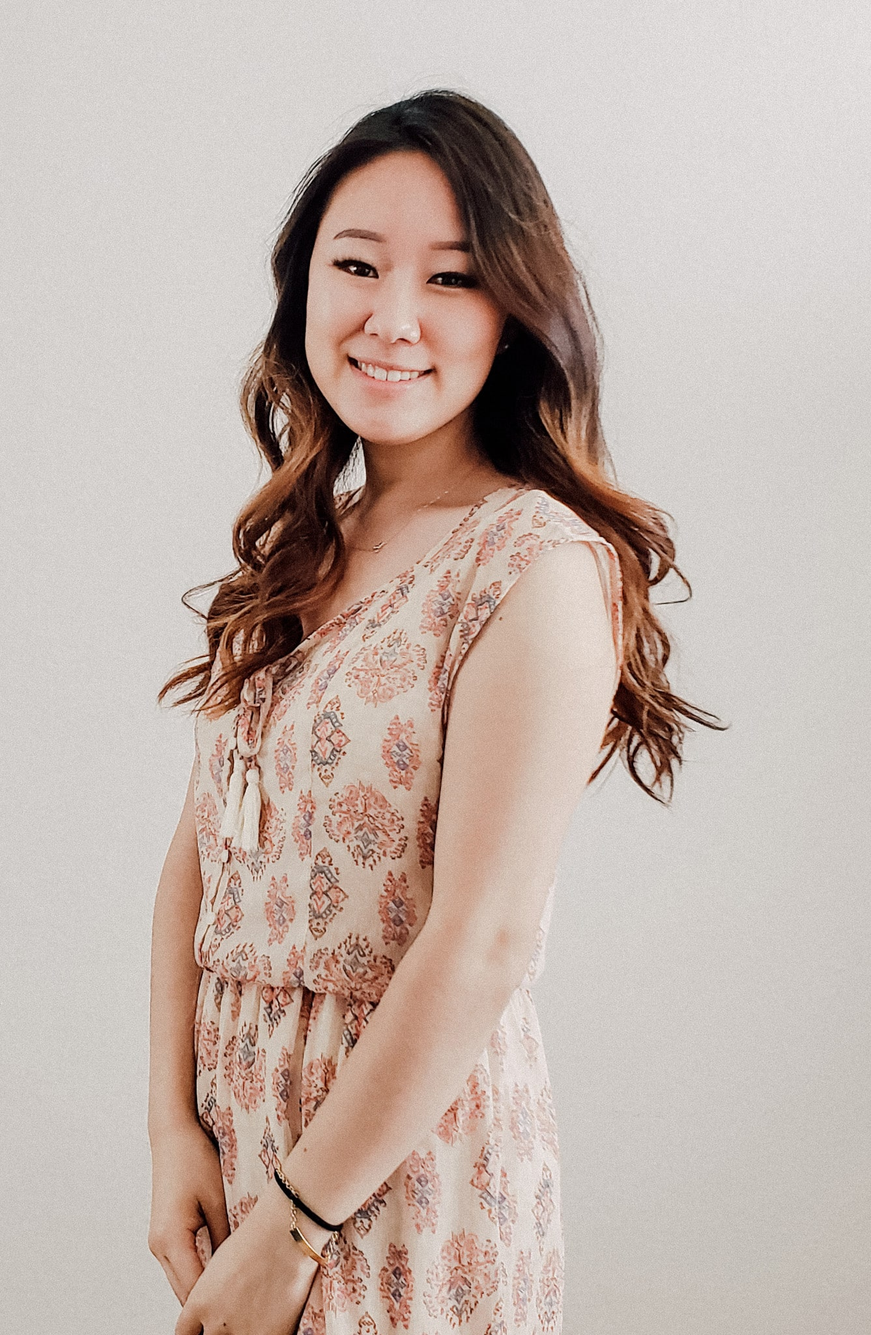
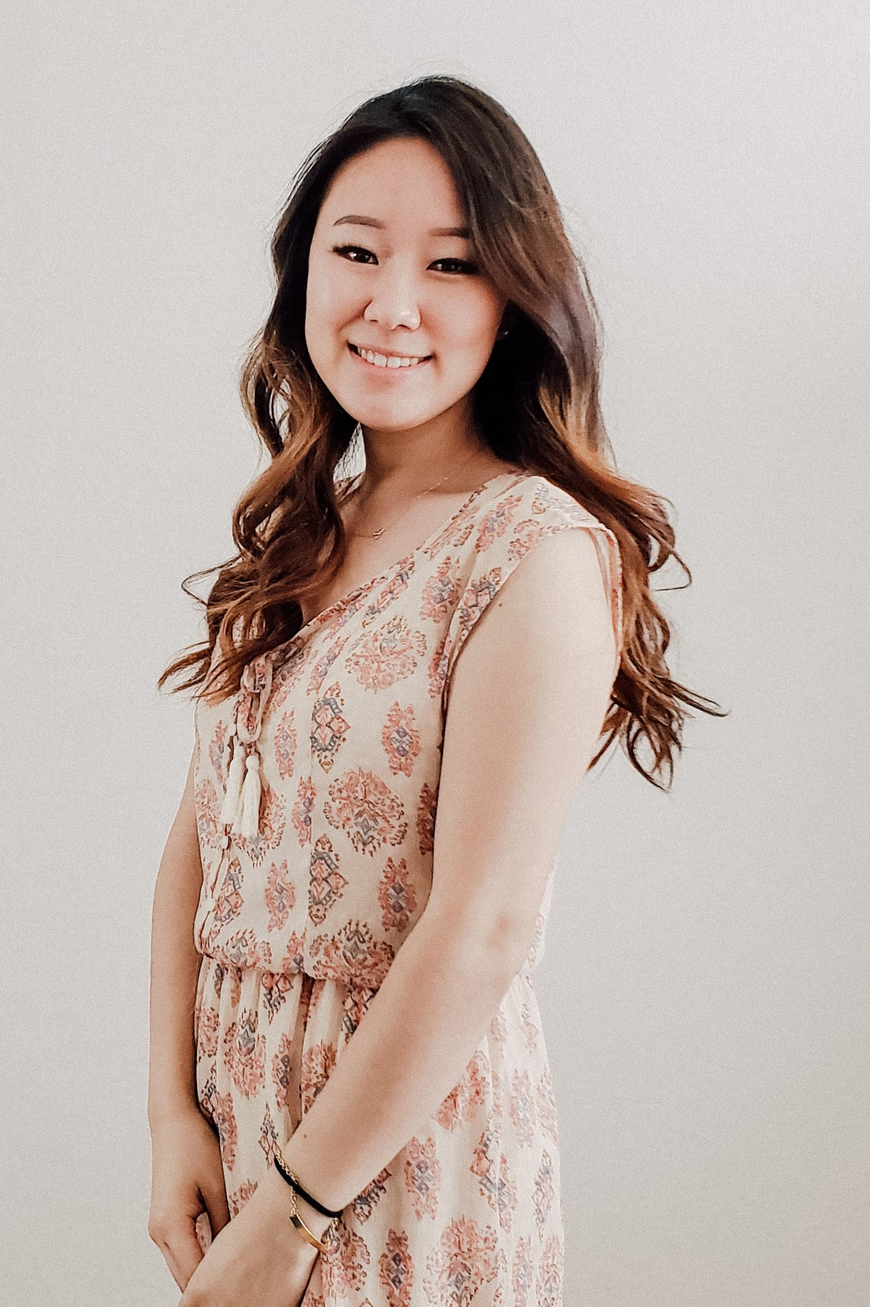
finished staff page

Changed region(s): [[0.1534, 0.4638, 0.6445, 1.0], [0.2148, 0.0309, 0.8286, 0.6185], [0.5831, 0.7421, 0.6138, 0.7731]]

diff --git a/src/content/Staff.js b/src/content/Staff.js
@@ -5,38 +5,38 @@ const Staff = [
     team: 'Executive',
     members: [
       {
-        name: 'Nicole Lee',
+        name: 'Kristen Yee',
         role: 'CEO',
         description: (
           <div>
             <h3>
-              Hi! My name is Nicole and I'm majoring in Media Studies and minoring in Journalism. I
-              joined YHWH Apparel during my sophomore year and have had the privilege of witnessing
-              God work in and through this community ever since. It's such a gift and a treat to
-              share my faith in unique ways while doing meaningful work alongside some really cool
-              people. I'm so thankful and honored to be a part of this team!
+              Hi! I'm Kristen, a student studying English. The semester that I joined YHWH, serving
+              and giving back to the Berkeley Christian community was heavy on my heart, and I'm so
+              grateful for the ways that YHWH has helped me incorporate my academic pursuits with my
+              faith. I am a huge coffee-lover, oversleeper, and #1 fan of my amazing marketing team
+              :)
             </h3>
           </div>
         ),
-        imgSrcDesktop: require('../images/staff/desktop-staff/nicole.png'),
-        imgSrcMobile: require('../images/staff/mobile-staff/nicole.jpg')
+        imgSrcDesktop: require('../images/staff/desktop-staff/kristen.png'),
+        imgSrcMobile: require('../images/staff/mobile-staff/kristen.jpg')
       },
       {
-        name: 'Peter Thompson',
+        name: 'Emily Shaw',
         role: 'Vice President',
         description: (
           <div>
             <h3>
-              Hey, I’m Peter, and I’m studying EECS. I joined YHWH my sophomore year, and being a
-              part of this team and community has been such a blessing! It’s been so amazing to see
-              how we’ve been able to carry out God’s mission through our apparel, and I’m so excited
-              to see how He’s going to continue to grow and work through us. Apart from YHWH, I love
-              to play basketball, go snowboarding, and play guitar.
+              Hello hello! I’m Emily and I’m an EECS major also pursing the Berkeley Certificate in
+              Design Innovation. Joining YHWH has been such a blessing in showing me how my passions
+              and career pursuits can be used to glorify God. My heart is so happy to see how our
+              products are used to spark conversations about Him. Apart from YHWH, I enjoy swimming,
+              hiking, and baking!
             </h3>
           </div>
         ),
-        imgSrcDesktop: require('../images/staff/desktop-staff/peter.png'),
-        imgSrcMobile: require('../images/staff/mobile-staff/peter.jpg')
+        imgSrcDesktop: require('../images/staff/desktop-staff/emily.png'),
+        imgSrcMobile: require('../images/staff/mobile-staff/emily.jpg')
       }
     ]
   },
@@ -44,21 +44,19 @@ const Staff = [
     team: 'Marketing',
     members: [
       {
-        name: 'Kristen Yee',
+        name: 'Aaron Wu',
         role: 'Marketing Lead',
         description: (
           <div>
             <h3>
-              Hi! I'm Kristen, a student with intent on studying some combination of Business
-              Administration and English. The semester that I joined YHWH, serving and giving back
-              to the Berkeley Christian community was heavy on my heart, and I'm so grateful for the
-              ways that YHWH has helped me incorporate my academic pursuits with my faith. I am a
-              huge coffee-lover, oversleeper, and #1 fan of my amazing marketing team :)
+              Hi, I'm Aaron, a student studying Cognitive Science. I joined YHWH Apparel to use my
+              love for design and fashion for God's glory. I love the process of translating
+              Scripture into physical designs.
             </h3>
           </div>
         ),
-        imgSrcDesktop: require('../images/staff/desktop-staff/kristen.png'),
-        imgSrcMobile: require('../images/staff/mobile-staff/kristen.jpg')
+        imgSrcDesktop: require('../images/staff/desktop-staff/aaron.png'),
+        imgSrcMobile: require('../images/staff/mobile-staff/aaron.jpg')
       },
       {
         name: 'Sooyoung Park',
@@ -79,8 +77,53 @@ const Staff = [
         imgSrcMobile: require('../images/staff/mobile-staff/sooyoung.jpg')
       },
       {
-        name: 'Daniel Lee',
+        name: 'Persis Gan',
         role: 'Marketing Editor',
+        description: (
+          <div>
+            <h3>
+              Hi! I'm Persis, a Global Studies major and I joined YHWH Apparel because I love
+              fashion, am interested in marketing and wanted to be apart of a closer Christian
+              community on campus. I love running outdoors, going for spin class, or staying in
+              curled up with a good book and listening to music. I also absolutely love dogs, making
+              random Spotify playlists and online shopping (heh).
+            </h3>
+          </div>
+        ),
+        imgSrcDesktop: require('../images/staff/desktop-staff/persis.png'),
+        imgSrcMobile: require('../images/staff/mobile-staff/persis.jpg')
+      }
+    ]
+  },
+  {
+    team: 'Web Development',
+    members: [
+      {
+        name: 'Christie Lum',
+        role: 'Web Developer',
+        description: (
+          <div>
+            <h3>
+              Hello! I'm Christie and am majoring in CS and data science. I joined YHWH this
+              semester as a web developer and am so excited to be able to combine my passion for
+              design, coding, and God together. As someone who loves serving, it's such a blessing
+              to be able to glorify the Lord and spread the gospel through fashion in this team. In
+              my free time, I love bullet journaling, singing with my Christian a cappella group,
+              playing TFT, and playing volleyball.
+            </h3>
+          </div>
+        ),
+        imgSrcDesktop: require('../images/staff/desktop-staff/christie.png'),
+        imgSrcMobile: require('../images/staff/mobile-staff/christie.jpg')
+      }
+    ]
+  },
+  {
+    team: 'Product Design',
+    members: [
+      {
+        name: 'Daniel Lee',
+        role: 'Product Design Lead',
         description: (
           <div>
             <h3>
@@ -94,69 +137,6 @@ const Staff = [
         ),
         imgSrcDesktop: require('../images/staff/desktop-staff/daniel.png'),
         imgSrcMobile: require('../images/staff/mobile-staff/daniel.jpg')
-      }
-    ]
-  },
-  {
-    team: 'Web Development',
-    members: [
-      {
-        name: 'Emily Shaw',
-        role: 'Web Developer',
-        description: (
-          <div>
-            <h3>
-              Hello hello! I’m Emily and I’m an EECS major also pursing the Berkeley Certificate in
-              Design Innovation. Joining YHWH has been such a blessing in showing me how my passion
-              for design can be used to glorify God. My heart is so happy to see how our products
-              are used to spark conversations about Him. Apart from YHWH, I enjoy swimming, hiking,
-              and baking!
-            </h3>
-          </div>
-        ),
-        imgSrcDesktop: require('../images/staff/desktop-staff/emily.png'),
-        imgSrcMobile: require('../images/staff/mobile-staff/emily.jpg')
-      },
-      {
-        name: 'Matt Flores',
-        role: 'Web Developer',
-        description: (
-          <div>
-            <h3>
-              Hi, I’m Matt and I study Cognitive Science. I joined YHWH in Fall 2019 and it has
-              been such a blessing and privilege to be apart of a team so dedicated to making a
-              product that glorifies God. This team has showed me how I can use my skills and
-              passions (in logistics, communication, and web design) to bring honor to God, and I am
-              so grateful to have the opportunity to play a small part in His big plan. I joined
-              because I felt so compelled to start conversations with my clothing and my appearance,
-              and this semester has showed me how God works powerfully through the smallest things,
-              whether it be a necklace or a jacket. In my free time, I love dancing, debating why
-              Twice is the queen of K-pop girl groups and not BlackPink, and exploring design.
-            </h3>
-          </div>
-        ),
-        imgSrcDesktop: require('../images/staff/desktop-staff/matt.png'),
-        imgSrcMobile: require('../images/staff/mobile-staff/matt.jpg')
-      }
-    ]
-  },
-  {
-    team: 'Product Design',
-    members: [
-      {
-        name: 'Aaron Wu',
-        role: 'Product Design Lead',
-        description: (
-          <div>
-            <h3>
-              Hi, I'm Aaron, a student studying Cognitive Science. I joined YHWH Apparel to use my
-              love for design and fashion for God's glory. I love the process of translating
-              Scripture into physical designs.
-            </h3>
-          </div>
-        ),
-        imgSrcDesktop: require('../images/staff/desktop-staff/aaron.png'),
-        imgSrcMobile: require('../images/staff/mobile-staff/aaron.jpg')
       },
       {
         name: 'Angela Ea',
@@ -176,25 +156,6 @@ const Staff = [
         imgSrcMobile: require('../images/staff/mobile-staff/angela.jpg')
       },
       {
-        name: 'Christine Oh',
-        role: 'Product Designer',
-        description: (
-          <div>
-            <h3>
-              Heyo! I'm Christine! I'm from Tallahassee, FL and currently studying Business
-              Administration and Media Studies. I joined YHWH to put my faith into action and action
-              into purpose! Through the YHWH community and work environment, Jesus has already
-              greatly rocked my heart to teach me that He is in all things forever and always. I'm
-              way thankful to bask in the true mercy, love, and generosity of Christ alongside
-              people who do the same. I love to swim, hike, and paint, and you can probably find me
-              eating a chicken burrito in between!
-            </h3>
-          </div>
-        ),
-        imgSrcDesktop: require('../images/staff/desktop-staff/christine.png'),
-        imgSrcMobile: require('../images/staff/mobile-staff/christine.jpg')
-      },
-      {
         name: 'Kylie Ren',
         role: 'Product Designer',
         description: (
@@ -211,6 +172,23 @@ const Staff = [
         ),
         imgSrcDesktop: require('../images/staff/desktop-staff/kylie.png'),
         imgSrcMobile: require('../images/staff/mobile-staff/kylie.jpg')
+      },
+      {
+        name: 'Maddie Kong',
+        role: 'Product Designer',
+        description: (
+          <div>
+            <h3>
+              AnyeonghasaYO, I’m Maddie and I’m studying Cognitive Science! I joined YHWH as a
+              product designer spring 2021 because I found YHWH’s mission to be refreshingly
+              unashamed in declaring the gospel and the intentional heart posture clearly manifested
+              in the designs. Excited to witness how God moves! In my free time, I love learning new
+              instruments, watching kdramas, and spending time outside.
+            </h3>
+          </div>
+        ),
+        imgSrcDesktop: require('../images/staff/desktop-staff/maddie.png'),
+        imgSrcMobile: require('../images/staff/mobile-staff/maddie.jpg')
       }
     ]
   },
@@ -250,6 +228,25 @@ const Staff = [
         ),
         imgSrcDesktop: require('../images/staff/desktop-staff/megan.png'),
         imgSrcMobile: require('../images/staff/mobile-staff/megan.jpg')
+      },
+      {
+        name: 'Christine Oh',
+        role: 'Business Operations Associate',
+        description: (
+          <div>
+            <h3>
+              Heyo! I'm Christine! I'm from Tallahassee, FL and currently studying Business
+              Administration and Media Studies. I joined YHWH to put my faith into action and action
+              into purpose! Through the YHWH community and work environment, Jesus has already
+              greatly rocked my heart to teach me that He is in all things forever and always. I'm
+              way thankful to bask in the true mercy, love, and generosity of Christ alongside
+              people who do the same. I love to swim, hike, and paint, and you can probably find me
+              eating a chicken burrito in between!
+            </h3>
+          </div>
+        ),
+        imgSrcDesktop: require('../images/staff/desktop-staff/christine.png'),
+        imgSrcMobile: require('../images/staff/mobile-staff/christine.jpg')
       }
     ]
   }
